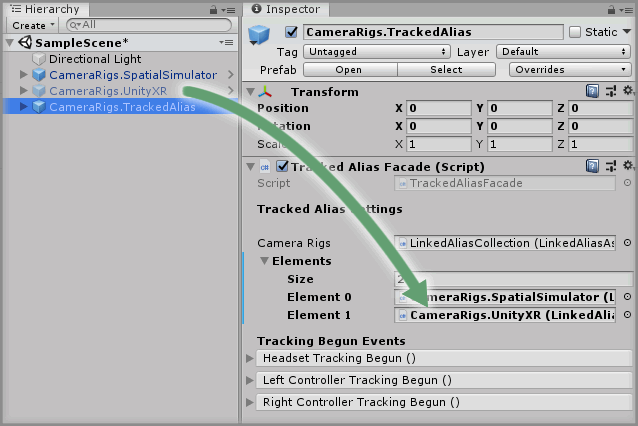
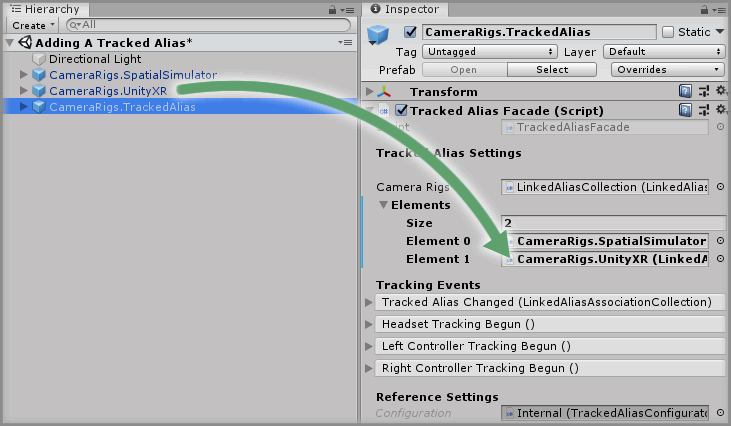
fix(Documentation): apply style guidelines
The guide has had the style guidelines applied to it to
make it more consistent.

Changed region(s): [[0.0, 0.0, 1.0, 1.0], [0.8934, 0.061, 0.9828, 0.0915], [0.953, 0.0, 0.9828, 0.0305]]

diff --git a/Documentation/HowToGuides/AddingATrackedAlias/README.md b/Documentation/HowToGuides/AddingATrackedAlias/README.md
@@ -8,11 +8,9 @@
 
 ## Introduction
 
-The Tracked Alias prefab provides a way of attaching elements to CameraRig configurations without specifically tying them to the underlying SDK CameraRig.
+The `CameraRigs.TrackedAlias` prefab provides a way of attaching elements to CameraRig configurations without specifically tying them to the underlying SDK CameraRig.
 
 This is useful if you want to support multiple SDK CameraRigs in your scene but don’t want to duplicate the same child GameObjects of all the relevant SDK CameraRigs.
-
-The outcome of this How-To Guide is to learn how to add the multiple supported CameraRig prefabs to the scene and utilize the Tracked Alias prefab to provide trackable aliases for the active SDK CameraRig.
 
 ## Prerequisites
 
@@ -38,15 +36,21 @@ Select the `CameraRigs.TrackedAlias` GameObject in the Unity Hierarchy window th
 
 ### Step 3
 
-Drag and drop the `CameraRigs.SpatialSimulator` GameObject from the Unity Hierarchy window into the newly displayed Element `0` field within the Elements parameter on the `Tracked Alias Facade` component.
+Drag and drop the `CameraRigs.SpatialSimulator` GameObject into the newly created `Element 0` property value within the `Camera Rigs` property on the `Tracked Alias Facade` component.
 
 ![Drag And Drop Spatial Simulator Into TrackedAlias](assets/images/DragAndDropSpatialSimulatorIntoTrackedAlias.png)
 
 ### Step 4
 
-Drag and drop the `CameraRigs.UnityXR` GameObject from the Unity Hierarchy window into the newly displayed Element `1` field within the Elements parameter on the `Tracked Alias Facade` component. Disable the `CameraRigs.UnityXR` GameObject so there is only one active CameraRig in the scene.
+Drag and drop the `CameraRigs.UnityXR` GameObject into the newly created `Element 1` property value  within the `Camera Rigs` property on the `Tracked Alias Facade` component.
 
 ![Drag And Drop UnityXR Into TrackedAlias](assets/images/DragAndDropUnityXRIntoTrackedAlias.png)
+
+### Step 5
+
+Disable the `CameraRigs.UnityXR` GameObject so there is only one active CameraRig in the scene.
+
+![Disable UnityXR GameObject](assets/images/DisableUnityXRGameObject.png)
 
 ### Done
 

diff --git a/Documentation/HowToGuides/Installation/README.md b/Documentation/HowToGuides/Installation/README.md
@@ -64,5 +64,5 @@ The package will now also show up in the Unity Package Manager UI. From then on 
 [Unity Package Manager]: https://docs.unity3d.com/Manual/upm-ui.html
 [Project-Manifest]: https://docs.unity3d.com/Manual/upm-manifestPrj.html
 [Version-Release]: https://img.shields.io/github/release/ExtendRealityLtd/Tilia.CameraRigs.TrackedAlias.Unity.svg
-[Releases]: ../../releases
-[Latest-Release]: ../../releases/latest
+[Releases]: ../../../../../releases
+[Latest-Release]: ../../../../../releases/latest
